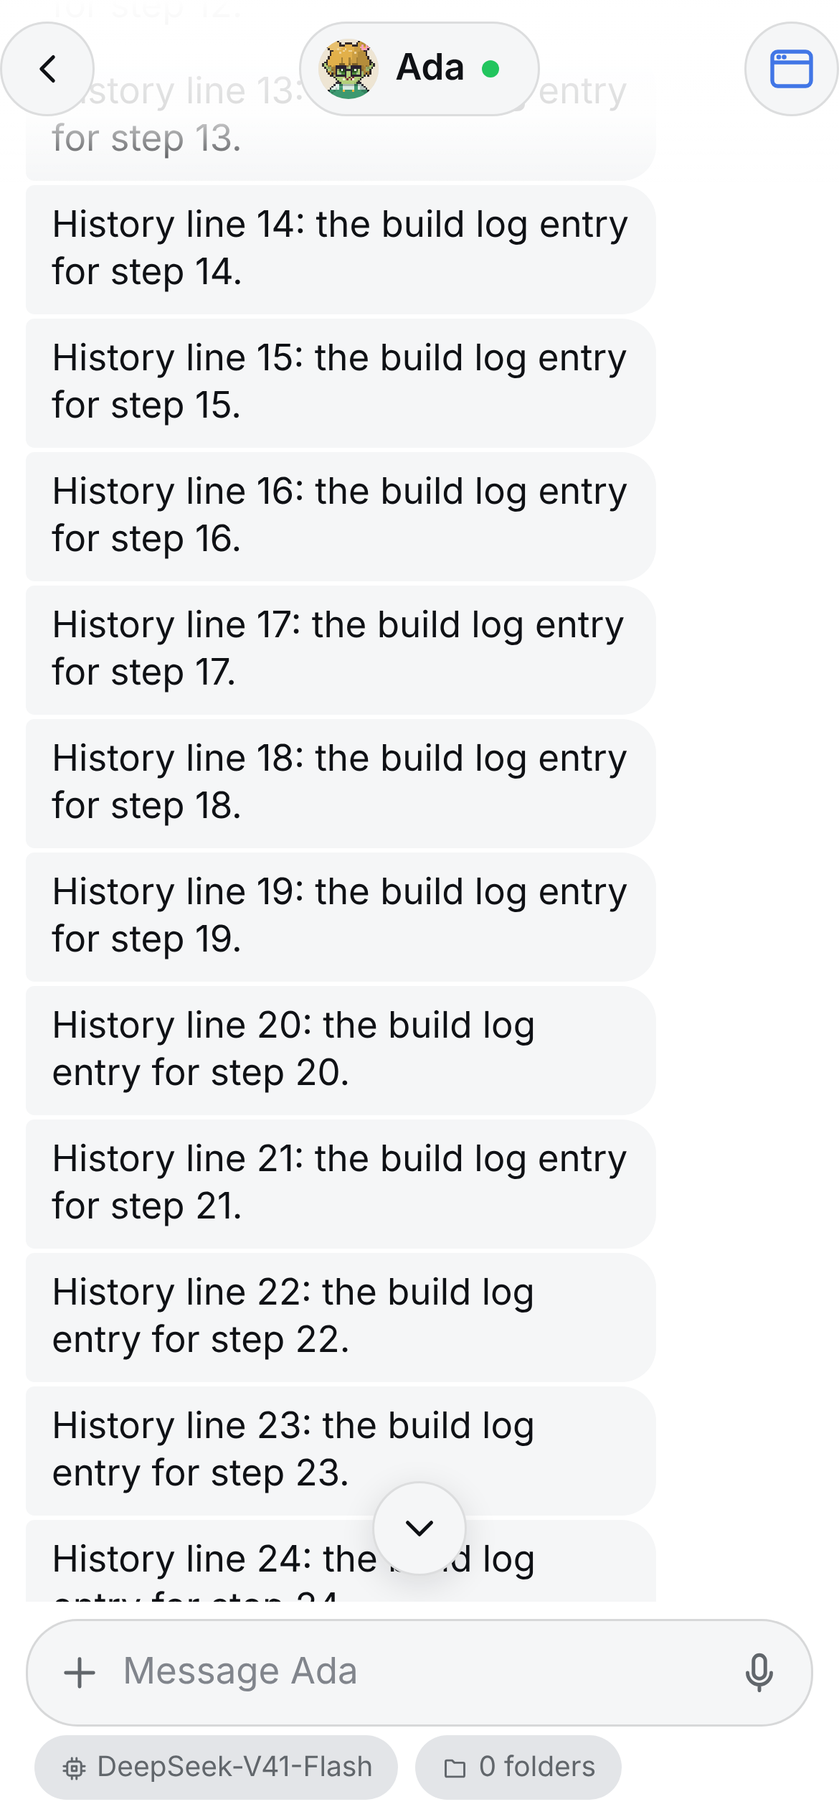
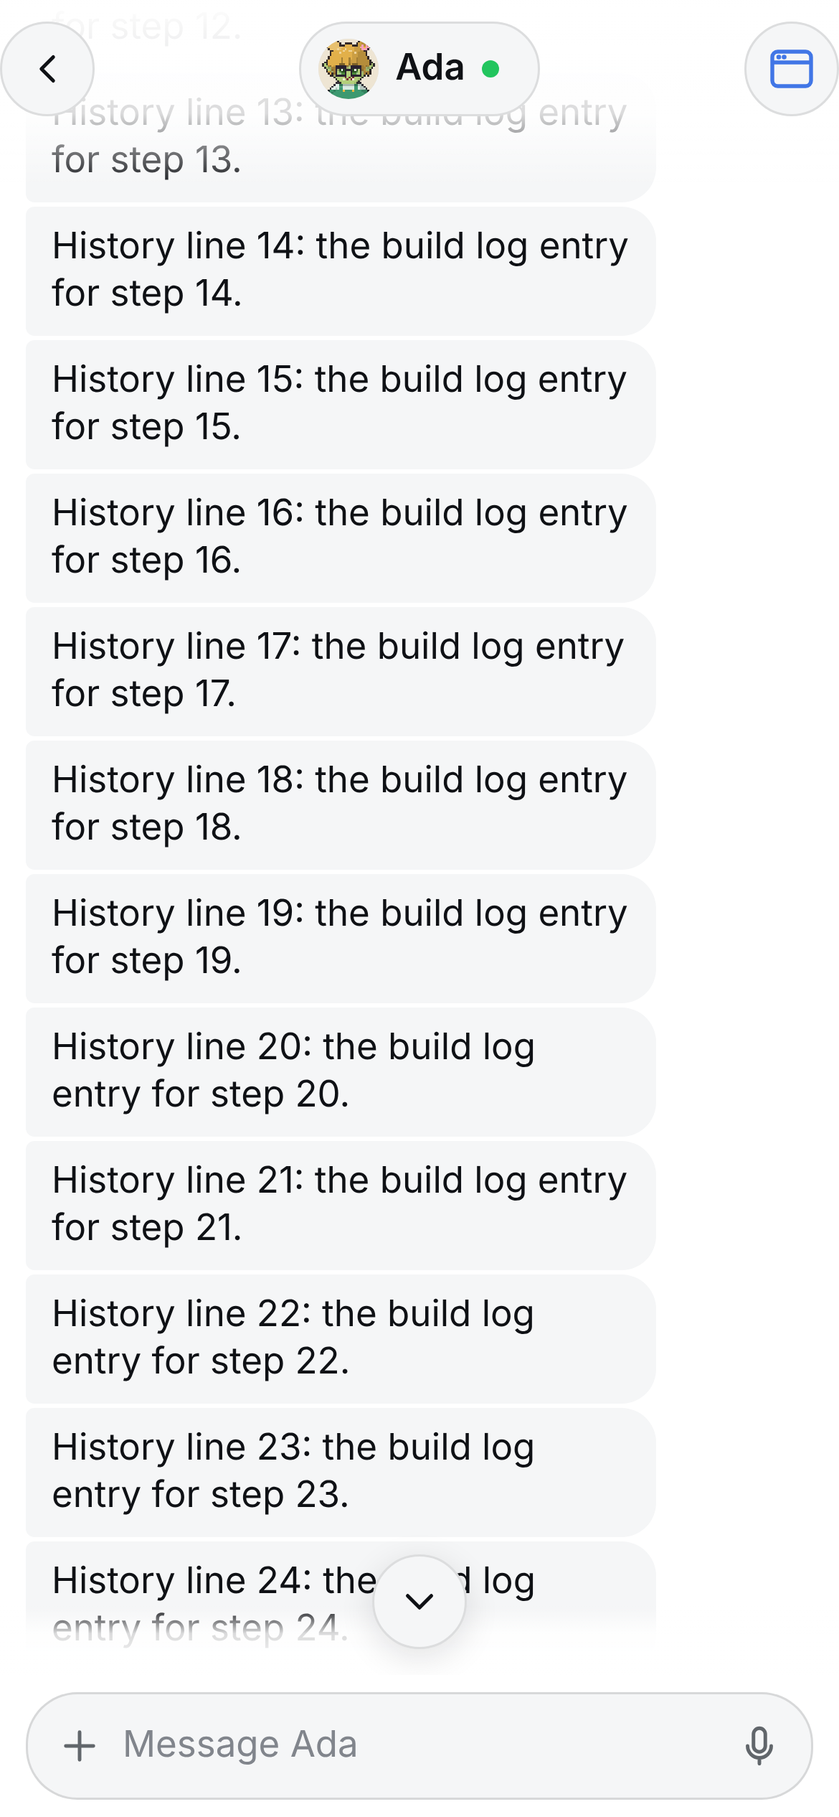
Fade the mobile DM above the composer and move Model and Workspace into the Bot profile (#1875)
* feat(mobile): transparent DM header with an avatar, name and state chip

Claude-Session: https://claude.ai/code/session_01LzUNRQhy85WgjWULziwrxc

* docs(mobile): DM header screenshots for the PR

Claude-Session: https://claude.ai/code/session_01LzUNRQhy85WgjWULziwrxc

* docs: change fragment for the mobile DM header

Claude-Session: https://claude.ai/code/session_01LzUNRQhy85WgjWULziwrxc

* feat(mobile): concentric chip padding, round header buttons and a top fade

Claude-Session: https://claude.ai/code/session_01LzUNRQhy85WgjWULziwrxc

* feat(mobile): bottom fade above the composer; Model and Workspace move to the Bot profile

Claude-Session: https://claude.ai/code/session_01LzUNRQhy85WgjWULziwrxc

* fix(mobile): draw the DM top fade ourselves and turn off UIKit scroll edge effects

On the inverted list the iOS 26 soft edge effect never reached the top,
so messages ran under the status bar at full contrast.

Claude-Session: https://claude.ai/code/session_01LzUNRQhy85WgjWULziwrxc

---------

diff --git a/apps/mobile/src/ui/chat/conversation-screen.tsx b/apps/mobile/src/ui/chat/conversation-screen.tsx
@@ -3,7 +3,6 @@ import { useHeaderHeight } from 'expo-router/react-navigation';
 import { memo, useCallback, useMemo, useRef, useState } from 'react';
 import { ActivityIndicator, FlatList, KeyboardAvoidingView, Platform, View } from 'react-native';
 
-import { botSettings } from '../../host/bot-settings';
 import type { HostClient, RosterBot } from '../../host/client';
 import type {
   CardResolution,
@@ -40,10 +39,7 @@ import { botBusy } from './bot-tone';
 import { ChannelTitle } from './channel-title';
 import { ChatTitle } from './chat-title';
 import { Composer } from './composer';
-import { HeaderBackButton, HeaderEdgeFade, systemGlassBar } from './header-chrome';
-import { useComposerContext } from './composer-context';
-import { modelLabel, workspaceLabel } from './composer-labels';
-import { ComposerFooter } from './composer-footer';
+import { EdgeFade, HeaderBackButton, systemGlassBar } from './header-chrome';
 import { useFollowLatest } from './follow-latest';
 import { ImageViewer } from './image-viewer';
 import { JumpToLatest } from './jump-to-latest';
@@ -58,16 +54,14 @@ import {
   type SelectedMention,
 } from './mention-draft';
 import { MentionSuggestions } from './mention-suggestions';
-import { ModelSheet } from './model-sheet';
 import { DraftBubble, MessageBubble } from './message-bubble';
 import { copyMessage } from './message-menu';
 import { chatRows, type ChatRow } from './message-groups';
 import { QuestionCard } from './question-card';
 import { WorkingRow } from './working-row';
 import { TimeSeparator } from './time-separator';
-import { WorkspaceSheet } from './workspace-sheet';
 import { AccentProvider, useDesignTheme } from '../design/theme';
-import { space } from '../design/tokens';
+import { edgeFade, space } from '../design/tokens';
 import { OpenFullClientButton } from '../open-full-client';
 import { Text } from '../primitives/text';
 import { t } from '../strings';
@@ -230,13 +224,6 @@ function ChatConversation({ place, focus }: { place: ChatPlace; focus: string | 
   const [viewing, setViewing] = useState<MessageAttachment>();
   const [actionsFor, setActionsFor] = useState<ConversationMessage>();
   const [reactError, setReactError] = useState(false);
-  const [settingsSheet, setSettingsSheet] = useState<'model' | 'workspace'>();
-  const [workspaceOpened, setWorkspaceOpened] = useState(0);
-  const settings = useMemo(
-    () => (client === undefined || slug === undefined ? undefined : botSettings(client, slug)),
-    [client, slug],
-  );
-  const context = useComposerContext(settings);
   const list = useRef<FlatList<Row>>(null);
   const jumped = useRef<string | undefined>(undefined);
   const [answered, setAnswered] = useState<ReadonlySet<string>>(new Set());
@@ -487,7 +474,7 @@ function ChatConversation({ place, focus }: { place: ChatPlace; focus: string | 
           headerShadowVisible: false,
           headerTransparent: true,
           headerStyle: { backgroundColor: 'transparent' },
-          scrollEdgeEffects: { top: 'soft', bottom: 'soft', left: 'hidden', right: 'hidden' },
+          scrollEdgeEffects: { top: 'hidden', bottom: 'hidden', left: 'hidden', right: 'hidden' },
           ...(systemGlassBar
             ? {}
             : { headerLeft: () => <HeaderBackButton onPress={() => router.back()} /> }),
@@ -538,7 +525,7 @@ function ChatConversation({ place, focus }: { place: ChatPlace; focus: string | 
             inverted
             style={{ flex: 1 }}
             contentContainerStyle={{
-              paddingTop: space.x3,
+              paddingTop: edgeFade.bottom,
               paddingBottom: (notice === undefined ? headerHeight : 0) + space.x3,
             }}
             data={rows}
@@ -612,6 +599,7 @@ function ChatConversation({ place, focus }: { place: ChatPlace; focus: string | 
               ) : null
             }
           />
+          <EdgeFade edge="bottom" height={edgeFade.bottom} />
           {latest.away ? (
             <View
               pointerEvents="box-none"
@@ -659,65 +647,15 @@ function ChatConversation({ place, focus }: { place: ChatPlace; focus: string | 
           }}
           onStopDictation={dictation.stop}
           onCancelDictation={dictation.cancel}
-          {...(bot === undefined
-            ? {}
-            : {
-                footer: (
-                  <ComposerFooter
-                    mountRef={context.mount}
-                    botName={bot.displayName}
-                    model={modelLabel(context.model)}
-                    workspace={workspaceLabel(context.grants)}
-                    onModel={() => {
-                      if (context.model.status !== 'ready') context.reloadModel();
-                      setSettingsSheet('model');
-                    }}
-                    onWorkspace={() => {
-                      context.openWorkspace();
-                      setWorkspaceOpened((count) => count + 1);
-                      setSettingsSheet('workspace');
-                    }}
-                  />
-                ),
-              })}
         />
       </KeyboardAvoidingView>
-      {systemGlassBar ? null : <HeaderEdgeFade height={headerHeight} />}
+      <EdgeFade edge="top" height={headerHeight + edgeFade.extend} />
       <ImageViewer attachment={viewing} onClose={() => setViewing(undefined)} onShare={share} />
       <MessageActions
         message={actionsFor}
         onClose={() => setActionsFor(undefined)}
         onReact={(message, emoji, active) => react(message.id, emoji, active)}
         onCopy={copyMessage}
-      />
-      <ModelSheet
-        visible={settingsSheet === 'model'}
-        botName={bot?.displayName ?? slug ?? ''}
-        model={context.model}
-        onRetry={context.reloadModel}
-        onChoose={async (model, entry) => {
-          await settings?.chooseModel(model, entry);
-          context.reloadModel();
-        }}
-        onPreset={async (presetId) => {
-          await settings?.applyPreset(presetId);
-          context.reloadModel();
-        }}
-        onClose={() => setSettingsSheet(undefined)}
-      />
-      <WorkspaceSheet
-        key={workspaceOpened}
-        visible={settingsSheet === 'workspace'}
-        botName={bot?.displayName ?? slug ?? ''}
-        settings={settings}
-        grants={context.grants}
-        access={context.access}
-        templates={context.templates}
-        onRetryGrants={context.reloadGrants}
-        onGrantsChanged={context.reloadGrants}
-        onAccess={context.setAccess}
-        onTemplates={context.setTemplates}
-        onClose={() => setSettingsSheet(undefined)}
       />
     </>
   );

diff --git a/apps/mobile/src/ui/chat/bot-settings-panel.tsx b/apps/mobile/src/ui/chat/bot-settings-panel.tsx
@@ -1,0 +1,87 @@
+import { useMemo, useState } from 'react';
+import { View } from 'react-native';
+
+import { botSettings } from '../../host/bot-settings';
+import type { HostClient, RosterBot } from '../../host/client';
+import { useDesignTheme } from '../design/theme';
+import { edge } from '../design/tokens';
+import { SettingsRow, SettingsSection } from '../primitives/settings-row';
+import { ChevronRightIcon, CpuIcon, FolderIcon } from '../shell/icons';
+import { t } from '../strings';
+import { useComposerContext } from './composer-context';
+import { modelLabel, workspaceLabel } from './composer-labels';
+import { ModelSheet } from './model-sheet';
+import { WorkspaceSheet } from './workspace-sheet';
+
+const ICON = 20;
+
+export function BotSettingsPanel({ client, bot }: { client: HostClient; bot: RosterBot }) {
+  const theme = useDesignTheme();
+  const settings = useMemo(() => botSettings(client, bot.slug), [client, bot.slug]);
+  const context = useComposerContext(settings);
+  const [sheet, setSheet] = useState<'model' | 'workspace'>();
+  const [workspaceOpened, setWorkspaceOpened] = useState(0);
+  const model = modelLabel(context.model);
+  const workspace = workspaceLabel(context.grants);
+  const chevron = <ChevronRightIcon color={theme.color.muted} size={ICON} />;
+  return (
+    <View ref={context.mount} style={{ alignSelf: 'stretch' }}>
+      <SettingsSection title={t.composerContext}>
+        <SettingsRow
+          title={t.contextModel}
+          detail={model}
+          accessibilityLabel={`${t.contextModel} · ${bot.displayName} · ${model}`}
+          leading={<CpuIcon color={theme.color.fg} size={ICON} />}
+          trailing={chevron}
+          onPress={() => {
+            if (context.model.status !== 'ready') context.reloadModel();
+            setSheet('model');
+          }}
+        />
+        <View style={{ borderTopWidth: edge.hairline, borderTopColor: theme.layer.sheet.divider }}>
+          <SettingsRow
+            title={t.contextWorkspace}
+            detail={workspace}
+            accessibilityLabel={`${t.contextWorkspace} · ${bot.displayName} · ${workspace}`}
+            leading={<FolderIcon color={theme.color.fg} size={ICON} />}
+            trailing={chevron}
+            onPress={() => {
+              context.openWorkspace();
+              setWorkspaceOpened((count) => count + 1);
+              setSheet('workspace');
+            }}
+          />
+        </View>
+      </SettingsSection>
+      <ModelSheet
+        visible={sheet === 'model'}
+        botName={bot.displayName}
+        model={context.model}
+        onRetry={context.reloadModel}
+        onChoose={async (choice, entry) => {
+          await settings.chooseModel(choice, entry);
+          context.reloadModel();
+        }}
+        onPreset={async (presetId) => {
+          await settings.applyPreset(presetId);
+          context.reloadModel();
+        }}
+        onClose={() => setSheet(undefined)}
+      />
+      <WorkspaceSheet
+        key={workspaceOpened}
+        visible={sheet === 'workspace'}
+        botName={bot.displayName}
+        settings={settings}
+        grants={context.grants}
+        access={context.access}
+        templates={context.templates}
+        onRetryGrants={context.reloadGrants}
+        onGrantsChanged={context.reloadGrants}
+        onAccess={context.setAccess}
+        onTemplates={context.setTemplates}
+        onClose={() => setSheet(undefined)}
+      />
+    </View>
+  );
+}

diff --git a/apps/mobile/src/ui/chat/bot-profile.tsx b/apps/mobile/src/ui/chat/bot-profile.tsx
@@ -175,7 +175,15 @@ function ProfileAction({
   );
 }
 
-function ProfileHeader({ bot, actions }: { bot: RosterBot; actions: BotProfileActions }) {
+function ProfileHeader({
+  bot,
+  actions,
+  settings,
+}: {
+  bot: RosterBot;
+  actions: BotProfileActions;
+  settings: ReactNode;
+}) {
   return (
     <View style={{ alignItems: 'center', gap: space.x3, paddingBottom: space.x5 }}>
       <BotAvatar bot={bot} size={AVATAR} />
@@ -220,6 +228,9 @@ function ProfileHeader({ bot, actions }: { bot: RosterBot; actions: BotProfileAc
           onPress={actions.onNotifications}
         />
       </View>
+      {settings === undefined ? null : (
+        <View style={{ alignSelf: 'stretch', paddingTop: space.x3 }}>{settings}</View>
+      )}
     </View>
   );
 }
@@ -328,11 +339,13 @@ export function BotProfileSheet({
   channels,
   load,
   actions,
+  settings,
 }: {
   bot: RosterBot;
   channels: RosterChannel[];
   load: () => Promise<BotProfile>;
   actions: BotProfileActions;
+  settings?: ReactNode;
 }) {
   const theme = useDesignTheme();
   const [profile, setProfile] = useState<BotProfile | undefined>();
@@ -353,7 +366,7 @@ export function BotProfileSheet({
       stickySectionHeadersEnabled={false}
       style={{ flex: 1, backgroundColor: theme.color.surface }}
       contentContainerStyle={{ padding: space.x5, paddingTop: space.x6 }}
-      ListHeaderComponent={<ProfileHeader bot={bot} actions={actions} />}
+      ListHeaderComponent={<ProfileHeader bot={bot} actions={actions} settings={settings} />}
       renderSectionHeader={({ section }) => (
         <Text
           accessibilityRole="header"

diff --git a/apps/mobile/src/ui/chat/header-chrome.tsx b/apps/mobile/src/ui/chat/header-chrome.tsx
@@ -52,17 +52,24 @@ export function HeaderBackButton({ onPress }: { onPress(): void }) {
   );
 }
 
-export function HeaderEdgeFade({ height }: { height: number }) {
+export function EdgeFade({ edge: side, height }: { edge: 'top' | 'bottom'; height: number }) {
   const theme = useDesignTheme();
   const id = `fade-${useId().replace(/[^a-z0-9]/giu, '')}`;
+  const top = side === 'top';
   return (
     <View
       pointerEvents="none"
-      style={{ position: 'absolute', top: 0, left: 0, right: 0, height: height + edgeFade.extend }}
+      style={{
+        position: 'absolute',
+        left: 0,
+        right: 0,
+        height,
+        ...(top ? { top: 0 } : { bottom: 0 }),
+      }}
     >
       <Svg width="100%" height="100%" preserveAspectRatio="none">
         <Defs>
-          <LinearGradient id={id} x1="0" y1="0" x2="0" y2="1">
+          <LinearGradient id={id} x1="0" y1={top ? '0' : '1'} x2="0" y2={top ? '1' : '0'}>
             {edgeFade.stops.map((stop) => (
               <Stop
                 key={stop.offset}

diff --git a/apps/mobile/app/bot/[slug]/index.tsx b/apps/mobile/app/bot/[slug]/index.tsx
@@ -5,6 +5,7 @@ import { View } from 'react-native';
 import { botChannels, loadBotProfile } from '../../../src/host/bot-profile';
 import { useHostSession, useHostSnapshot } from '../../../src/host/host-session';
 import { BotProfileSheet } from '../../../src/ui/chat/bot-profile';
+import { BotSettingsPanel } from '../../../src/ui/chat/bot-settings-panel';
 import { useDesignTheme } from '../../../src/ui/design/theme';
 import { space } from '../../../src/ui/design/tokens';
 import { Text } from '../../../src/ui/primitives/text';
@@ -42,6 +43,7 @@ export default function BotProfileScreen() {
       bot={bot}
       channels={channels}
       load={load}
+      settings={client === undefined ? undefined : <BotSettingsPanel client={client} bot={bot} />}
       actions={{
         onMessage: () => (router.canGoBack() ? router.back() : router.replace(`/dm/${bot.slug}`)),
         ...(bot.browserAccess

diff --git a/apps/mobile/src/ui/design/tokens.ts b/apps/mobile/src/ui/design/tokens.ts
@@ -65,6 +65,7 @@ export const glass = {
 
 export const edgeFade = {
   extend: 24,
+  bottom: 32,
   stops: [
     { offset: 0, opacity: 1 },
     { offset: 0.6, opacity: 0.85 },

diff --git a/apps/mobile/DESIGN.md b/apps/mobile/DESIGN.md
@@ -80,8 +80,9 @@ The shell is set by [ADR-0211](../../docs/adr/0211-the-mobile-app-has-two-tabs-w
   - The chip is a full-round pill on `raised` with a hairline `edge`, so it stays readable over the messages. In one row it holds the Bot's avatar (no state ring), its name, and a state dot: `success` when idle, `accent` while thinking or working, `warning` when it waits for the Human, `danger` when blocked, `muted` when paused. The state is read out in the chip's accessibility label.
   - The chip's padding is concentric with its corners: it is `theme.touch` tall, so its corner radius is half that, and the avatar and the dot each sit that same distance from their end of the pill (padding = corner radius − the item's own radius).
   - Back and the computer button are round buttons of `theme.touch`. On iOS 26 they are the system's Liquid Glass bar buttons; elsewhere they are drawn as circles on `raised` with a hairline `edge`, like the chip.
-  - Messages fade out under the header. On iOS 26 this is the system's soft scroll edge effect (`scrollEdgeEffects`), drawn by UIKit at no JavaScript cost. Elsewhere a static gradient from `base` to transparent covers the header and a little below it; there is no live blur, because a blur view over a scrolling list re-renders every frame and needs a native module.
+  - Messages fade out under the header and the status bar: a static gradient from `base` to transparent covers the header and a little below it, on every platform. UIKit's scroll edge effects are turned off (`scrollEdgeEffects` all `hidden`): on the inverted list they did not show at the top on iOS 26. There is no live blur, because a blur view over a scrolling list re-renders every frame and needs a native module.
   - The list leaves the header's height free at its top, so the oldest message still clears the header.
+  - The same fade runs at the bottom of the list, just above the composer: a static `base` gradient (`edgeFade.bottom` tall) on every platform, and the list keeps that much space below the newest message so it rests clear of the fade.
 - Messages:
   - An inverted list. Messages from the same author within 5 minutes form a group, and a time separator appears after a 30-minute gap.
   - At the newest message the list follows a streaming reply. Once the Human drags or scrolls up into history, nothing moves the list under them: new text and messages land below while the part they are reading stays put. A round jump button (`raised`, with a ⌄) then floats centered above the composer, with an accent badge counting the Bot messages that arrived since they left (99+ at most), like the Web Client's "Return to latest messages". Tapping it, sending a message, or scrolling back down to the newest message follows again and hides the button.
@@ -112,11 +113,11 @@ The shell is set by [ADR-0211](../../docs/adr/0211-the-mobile-app-has-two-tabs-w
   - A decided card collapses to one line: a coloured dot, then "subject · outcome" (for example "bash · Allowed once"). A card decided on another device or expired says so.
     - The collapsed line is a Bot bubble with different content: the same left edge, `surface` fill, padding, 80% width cap and radius `lg`, and it joins the Bot's message group (`xs` corners on the joined side, the tighter group gap), so it lines up with the bubbles above and below it. In a group Channel it stands alone, so the next bubble still carries the Bot's name.
 - While the Bot works (thinking or working), a working row at the bottom of the message list, after the newest message, shows "{Bot} · current step…" and a **Stop** button, like the Web Client's timeline working rows. Tapping it shows the steps. Nothing sits fixed above the composer, so the composer never moves when a Bot starts or stops; scrolled up, the row is out of view like any new message.
-- The composer is a pill: **+** for attachments, the placeholder "Message {Bot}", and a mic that becomes Send once there is text. In a DM a footer row with the Model and Workspace chips sits under it.
+- The composer is a pill: **+** for attachments, the placeholder "Message {Bot}", and a mic that becomes Send once there is text.
   - With one trailing button (the mic or Send) the pill is one row: **+**, the field and the button, bottom-aligned as the field grows. When the text no longer fits that one row, or with more (attached files, or the mic next to Send), it stacks like the web composer: the field on top at full width, and a row below with **+** (or **×**) on the left and the buttons on the right.
   - **+** opens Photos, Camera and File below the pill. Picked files show as removable tiles inside the pill, up to 10 per message. Send appears once there is text or a file.
   - Sending uploads each file to the Host first. A retry keeps the uploads that already finished.
-  - Under the pill, in a DM, a footer row holds two compact chips like the Web Client's composer footer: **Model** (a chip icon and the Bot's current model name, or "Loading…", "No model set" or "Unavailable") and **Workspace** (a folder icon and the folder count, "N folders"). Chips are `canvas.selected` pills with `meta` text, and their touch area reaches `theme.touch`.
+  - Nothing sits under the pill, so the chat stays clean. A DM's Model and Workspace settings live in the Bot profile, in a **Bot settings** group under the profile actions: a **Model** row (the Bot's current model name, or "Loading…", "No model set" or "Unavailable") and a **Workspace** row (the folder count, "N folders"), each with a chevron.
     - **Model** opens a sheet from the bottom titled "Model · {Bot}": Presets (when the Host has any) and the Models list, the current one checked. Picking a model changes only the Bot's main model; its Assignment models stay as they are. A model whose provider needs a key is shown muted and cannot be picked. The sheet closes once the Host accepts the change. Advanced settings (reasoning effort, Assignment models) stay on the computer.
     - **Workspace** opens a sheet titled "Workspace · {Bot}" with three sections, the same actions as the Web composer's workspace panel:
       1. **Folders**: each granted folder as a row (name, then "Can edit" or "Read only" and its path) with a × that removes access, then **Add folder**. Add folder turns the sheet into a folder browser of the computer: folders registered on the computer, the path as tappable crumbs, and the subfolders; **Authorize this folder** resolves the current folder and asks for a scoped confirmation ("Confirm authorization for {Bot}" with the resolved path) before granting it.
@@ -136,6 +137,7 @@ The shell is set by [ADR-0211](../../docs/adr/0211-the-mobile-app-has-two-tabs-w
 
 - Avatar, name, label and description.
 - Actions: Message (closes the sheet back to the DM), Computer (only when the Bot has Computer access; opens the live desktop view, where **Pause Bot and take control** lets the Human click and type, with a password keyboard), Notifications.
+- Under the actions, a **Bot settings** group with the Model and Workspace rows (see Chat), each opening its sheet from the bottom over the profile.
 - Sections: Identity (the Soul: persona and standing rules), Memory (the Memory repository as a folder tree: folders first, each opens to its own list inside the sheet, and a file opens as read-only text), Routines (schedules), Channels (group Channels the Bot is in), Files (folders shared with the Bot).
 - Each section loads on its own: an empty section says so, and a failed one offers Try again without hiding the others.
 - Read-only for now; editing Identity and Memory from the phone comes later.

diff --git a/changes/1875-mobile-chat-header.md b/changes/1875-mobile-chat-header.md
@@ -4,8 +4,8 @@ section: Changed
 
 ## en
 
-- In the DeepSeekBot mobile app, a DM's header now has no background, so messages scroll under it. Back sits on the left, and a round chip in the middle shows the Bot's avatar, its name and a dot for its state: idle, working, waiting for you or blocked ([#1875](https://github.com/BotHarness/DeepSeekBot/pull/1875)).
+- In the DeepSeekBot mobile app, a DM's header now has no background, so messages scroll under it. Back sits on the left, and a round chip in the middle shows the Bot's avatar, its name and a dot for its state: idle, working, waiting for you or blocked. Messages fade out softly under the header and above the composer, and the Model and Workspace chips moved from under the composer into a Bot settings group on the Bot profile ([#1875](https://github.com/BotHarness/DeepSeekBot/pull/1875)).
 
 ## zh
 
-- DeepSeekBot 手机 App 私聊页的顶栏不再有背景，消息可以滚到它下面。左侧是返回按钮，中间是一个圆角胶囊，依次显示 Bot 的头像、名字和表示状态的小圆点：空闲、工作中、等你处理或受阻（[#1875](https://github.com/BotHarness/DeepSeekBot/pull/1875)）。
+- DeepSeekBot 手机 App 私聊页的顶栏不再有背景，消息可以滚到它下面。左侧是返回按钮，中间是一个圆角胶囊，依次显示 Bot 的头像、名字和表示状态的小圆点：空闲、工作中、等你处理或受阻。消息在顶栏下方和输入框上方都会柔和地渐隐；模型和工作区不再显示在输入框下方，改到 Bot 资料页的“Bot 设置”分组里（[#1875](https://github.com/BotHarness/DeepSeekBot/pull/1875)）。
